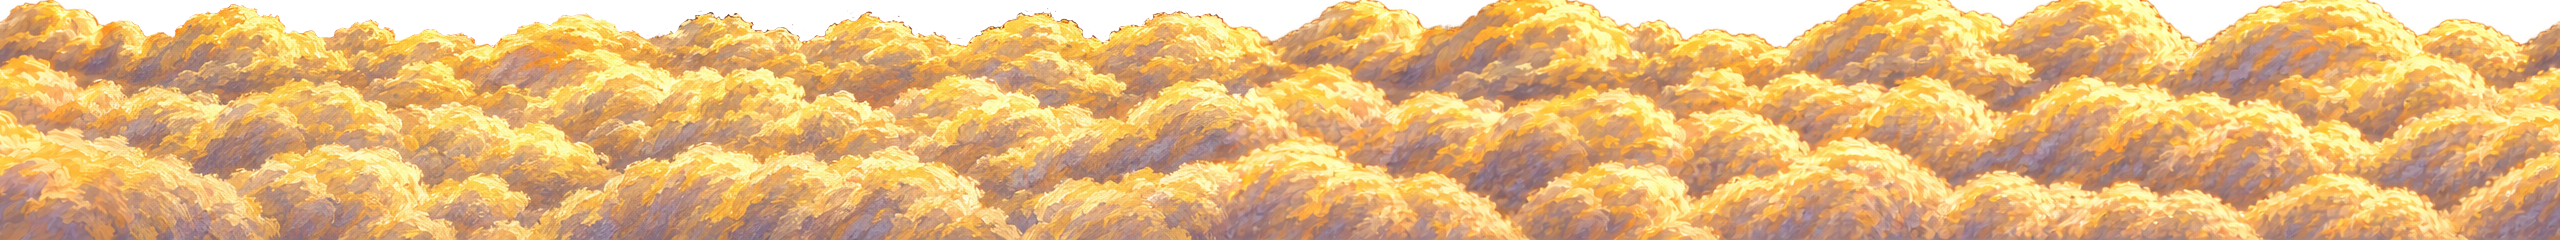
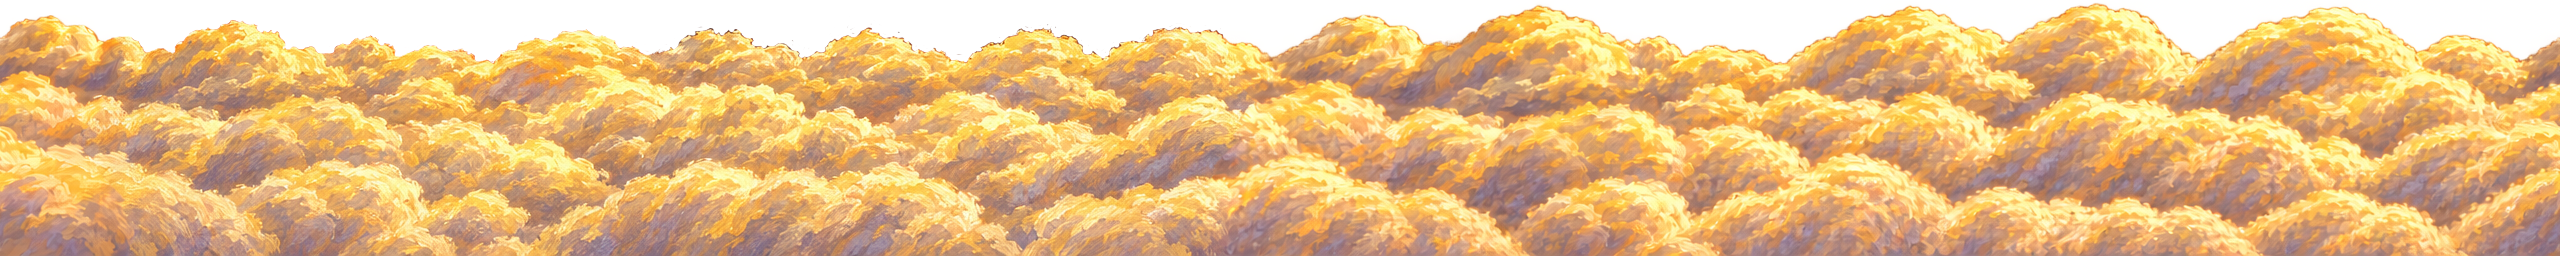
Title clouds: keep the new cloud tops that rise above the old strip
The painted clouds rise up to 40 px (5x) above the old strip's top, and
the importer kept only the old strip's rows, so their tops were cut off
flat. The wide strips now keep those rows (taller layers placed higher:
layout "wide" at), and make_title_hdpack places them there.

Claude-Session: https://claude.ai/code/session_01NRrbJ2Nn1D8tAHPZXLSboV

diff --git a/tools/import_title_ai.py b/tools/import_title_ai.py
@@ -11,6 +11,8 @@ hd/title/layers/ and layout.json:
                                 back at the ends, then turned so the old strip
                                 is where it was (x 0-1279) and the new clouds
                                 follow it; layout "wide" of each cloud layer
+                                (taller than the old strip and placed higher
+                                where the new clouds rise above its top)
 
 The model repaints the whole picture, not just the masked part, so its copy
 of the kept painting only resembles it. Where the two meet, each row is cut
@@ -113,8 +115,15 @@ def main():
         src = np.asarray(Image.open(os.path.join(LAYERS, specs[name]['files']['sunset'])).convert('RGBA')).astype(float)
         if not os.path.exists(res):
             strips[name] = None; continue
-        h = src.shape[0]
-        gen = load(res, 'RGBA', (PERIOD, CLOUD_H))[CLOUD_H - h:]
+        h0 = src.shape[0]
+        full = load(res, 'RGBA', (PERIOD, CLOUD_H))
+        # the new clouds may rise above the old strip's top: keep those rows
+        # too (the layer starts higher), or their tops are cut off flat
+        rows = np.flatnonzero((full[..., 3] > 8).any(1))
+        extra = max(0, (CLOUD_H - h0) - int(rows.min()) + 2) if len(rows) else 0
+        h = h0 + extra
+        gen = full[CLOUD_H - h:]
+        src = np.concatenate([np.zeros((extra, STRIP, 4)), src], 0)
         if gen[..., 3].min() > 250:
             print(f'  {cid}: the result has no transparency (the sky above the clouds came back painted); '
                   'run it again with --redo, or check settings.json says transparent')
@@ -130,7 +139,8 @@ def main():
         assert np.abs(out[:, m:STRIP - m] - keep)[keep[..., 3] > 8].max() < 2.0
         fn = name + '_wide_sunset.png'
         save(out, os.path.join(LAYERS, fn))
-        specs[name]['wide'] = {'files': {'sunset': fn}, 'period': PERIOD,
+        x_at, y_at = specs[name]['at']
+        specs[name]['wide'] = {'files': {'sunset': fn}, 'period': PERIOD, 'at': [x_at, y_at - extra],
                                'note': 'repeats every 2560 px (512 native); the first 1280 are the old strip'}
         strips[name] = out
         rep = np.concatenate([out, out], 1)
@@ -157,7 +167,7 @@ def main():
             reps = int(np.ceil(canvas.shape[1] / st.shape[1])) + 1
             # native x 0 is strip x 0 at scroll 0: the side starts SIDE before it
             row = np.roll(np.concatenate([st] * reps, 1), SIDE, axis=1)[:, :canvas.shape[1]]
-            y = specs[name]['at'][1]
+            y = specs[name]['wide']['at'][1] if strips.get(name) is not None else specs[name]['at'][1]
             region = canvas[y:y + row.shape[0]]
             al = row[..., 3:] / 255; region[..., :3] = region[..., :3] * (1 - al) + row[..., :3] * al
         save(canvas[..., :3], os.path.join(prev, 'title_wide_sunset.png'))

diff --git a/tools/make_title_hdpack.py b/tools/make_title_hdpack.py
@@ -227,8 +227,8 @@ def main():
     # blended into a half-turned copy.
     strips = []
     for name in ('clouds_back', 'clouds_front'):
-        sp = specs[name]; y_at = round(sp['at'][1] * f); top = (y_at // S) * S
-        wide = sp.get('wide')
+        sp = specs[name]; wide = sp.get('wide')
+        y_at = round((wide or sp).get('at', sp['at'])[1] * f); top = (y_at // S) * S
         if wide:
             sp = dict(sp); sp['files'] = wide['files']
         period = round(wide['period'] * f) if wide else W

diff --git a/CLAUDE.md b/CLAUDE.md
@@ -68,7 +68,7 @@ README.md is the full reference; this file is the working summary.
 - Title: layers in `hd/title/layers/` (sky+castle, plate, lettering, two cloud strips; `layout.json`), painted on
   the `tools/export_title_kit.py` guides. Blue-sky versions are recoloured at build time unless `*_day.png` exist.
   Widescreen: sky 426 columns wide (layout `"wide"`, `sky_wide_sunset.png`; stand-in without it), cloud strips 512 px
-  (`clouds_*_wide_sunset.png`, period 2560 at 5x) followed past the 256 px scroll wrap (patch 0034). Painted via
+  (`clouds_*_wide_sunset.png`, period 2560 at 5x, taller and placed higher than the old strips where the new clouds rise above them: wide "at") followed past the 256 px scroll wrap (patch 0034). Painted via
   `tools/export_title_ai.py OUT` (OpenAI, masks keep the paintings) + `tools/import_title_ai.py OUT`. 8-bit title
   sides: `title_sides` in src/dw4_edges.c.
 - Endor casino: poker card sheets `hd/casino/cards/C01-C09.png` → one consistent deck composed from their
